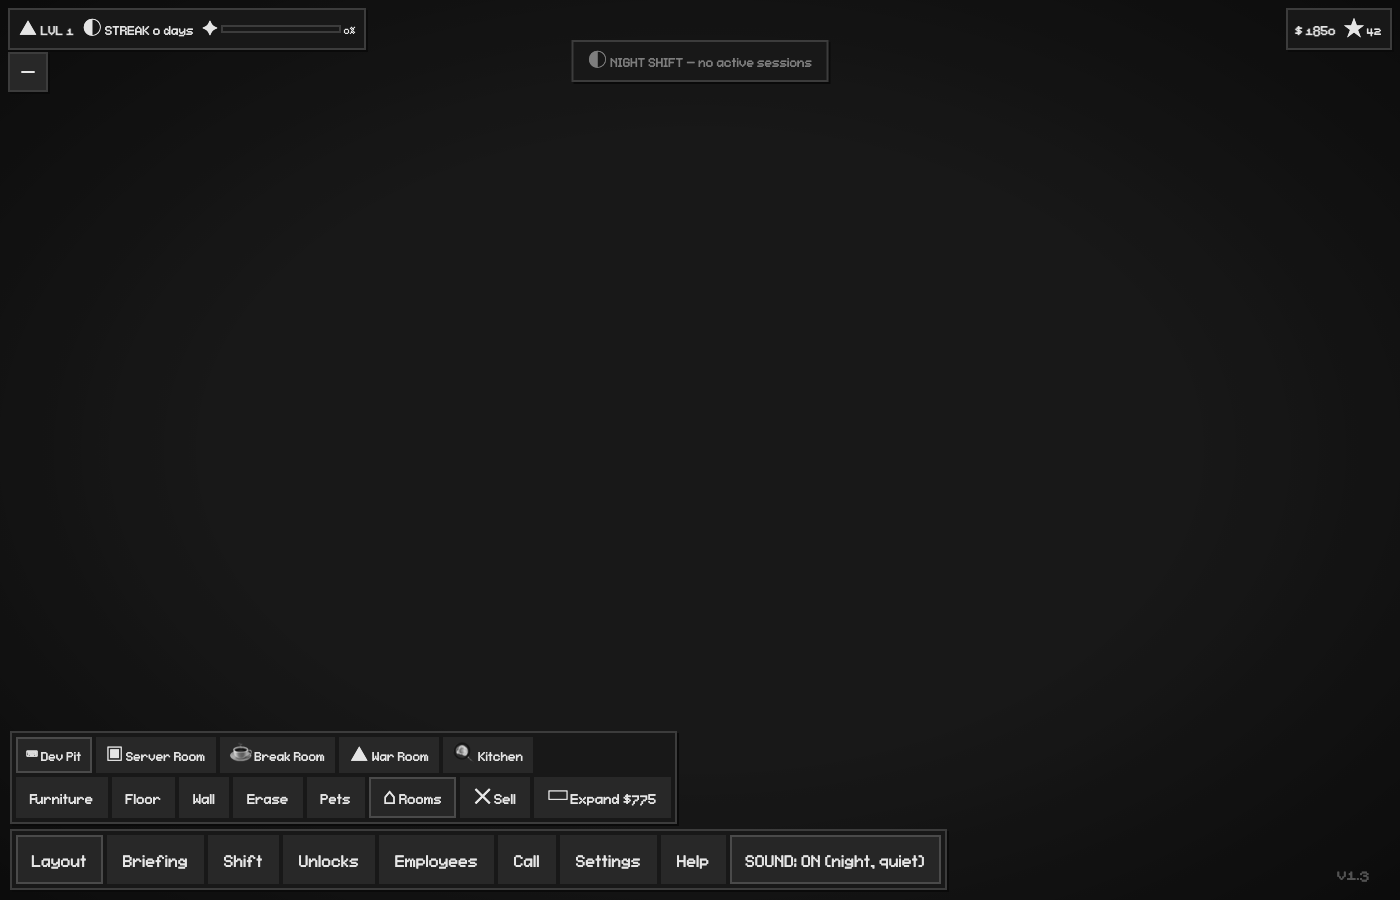
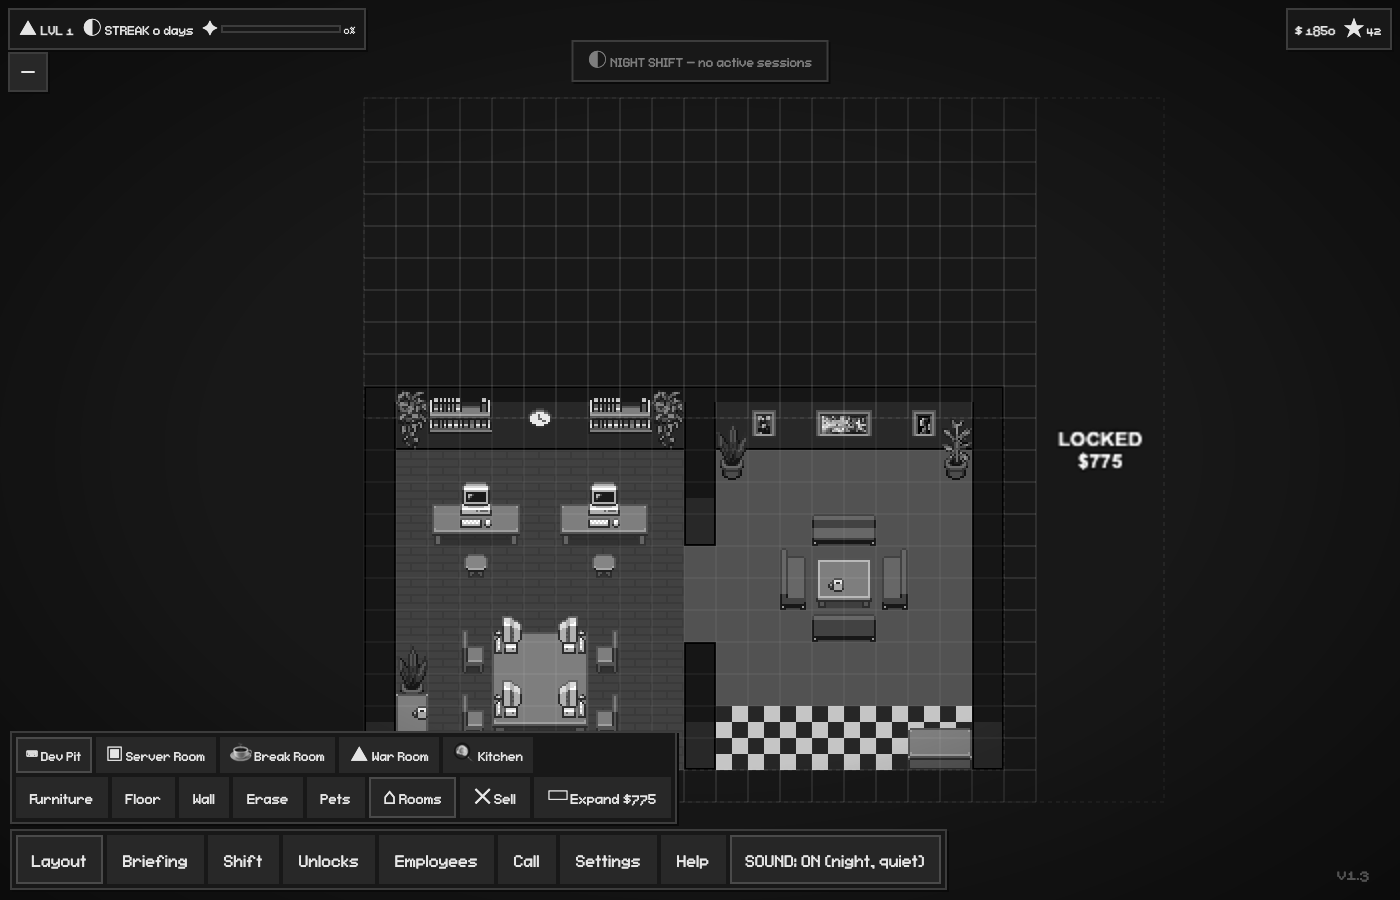
fix(webview): stop Pixi dispose() from detaching the canvas from the DOM
Real regression found while investigating a blank build-mode screenshot
(reported by team-lead review): pixiApp.ts's dispose() called
app.destroy(true, ...) — Pixi's `removeView: true` shorthand, which
physically removes the <canvas> element from the document. OfficeCanvas's
big useEffect disposes and recreates the Pixi app on every isEditMode/
_editorTick change (pre-existing architecture, unchanged since before the
G0 PixiJS swap). Under the old canvas2d engine this was harmless — nothing
there owned DOM insertion. Under Pixi, destroy(true) silently orphans the
canvas node on the FIRST dispose; the next startPixiApp() call
re-initializes onto a detached element that React never re-inserts,
leaving the office permanently blank the instant edit mode (or any other
_editorTick-triggering action) is entered. This has been latent since G0
— nothing exercised a dispose+recreate cycle in a screenshot test until
this session's build-mode capture.

Fix: pass `{ removeView: false }` to both destroy() call sites — Pixi
tears down its own renderer/ticker/texture resources but leaves the
canvas DOM node alone, since React (via the ref) owns its lifecycle, not
Pixi. Verified via a real-browser repro: canvas count went 1->0 on
entering edit mode before the fix, stays at 1 after. Re-captured the
g2-build-mode evidence pair — the office now renders correctly in edit
mode, including the LOCKED $775 bay-ghost text the original acceptance
[…]

Changed region(s): [[0.2764, 0.4356, 0.7064, 0.8711], [0.7371, 0.4667, 0.8293, 0.5289]]

diff --git a/webview-ui/src/office/engine/pixiApp.ts b/webview-ui/src/office/engine/pixiApp.ts
@@ -46,7 +46,15 @@ export function startPixiApp(
     });
 
     if (disposed) {
-      instance.destroy(true, { children: true, texture: false });
+      // removeView must stay false — the <canvas> DOM node belongs to
+      // React (mounted/unmounted via the ref), never to Pixi. `true` here
+      // physically detaches the canvas from the document; a later
+      // startPixiApp() call reusing the same ref then initializes onto an
+      // orphaned node React never re-inserts, leaving the office
+      // permanently blank on the next dispose+recreate cycle (e.g. every
+      // isEditMode/_editorTick change in OfficeCanvas.tsx's effect deps —
+      // found via a real-browser G2 build-mode screenshot repro).
+      instance.destroy({ removeView: false }, { children: true, texture: false });
       throw new Error('pixiApp: disposed before init resolved');
     }
 
@@ -69,7 +77,9 @@ export function startPixiApp(
       disposed = true;
       if (app) {
         if (tickerFn) app.ticker.remove(tickerFn);
-        app.destroy(true, { children: true, texture: false });
+        // removeView: false — see the matching comment above; React owns
+        // the canvas element's DOM lifecycle, not Pixi.
+        app.destroy({ removeView: false }, { children: true, texture: false });
         app = null;
       }
     },
